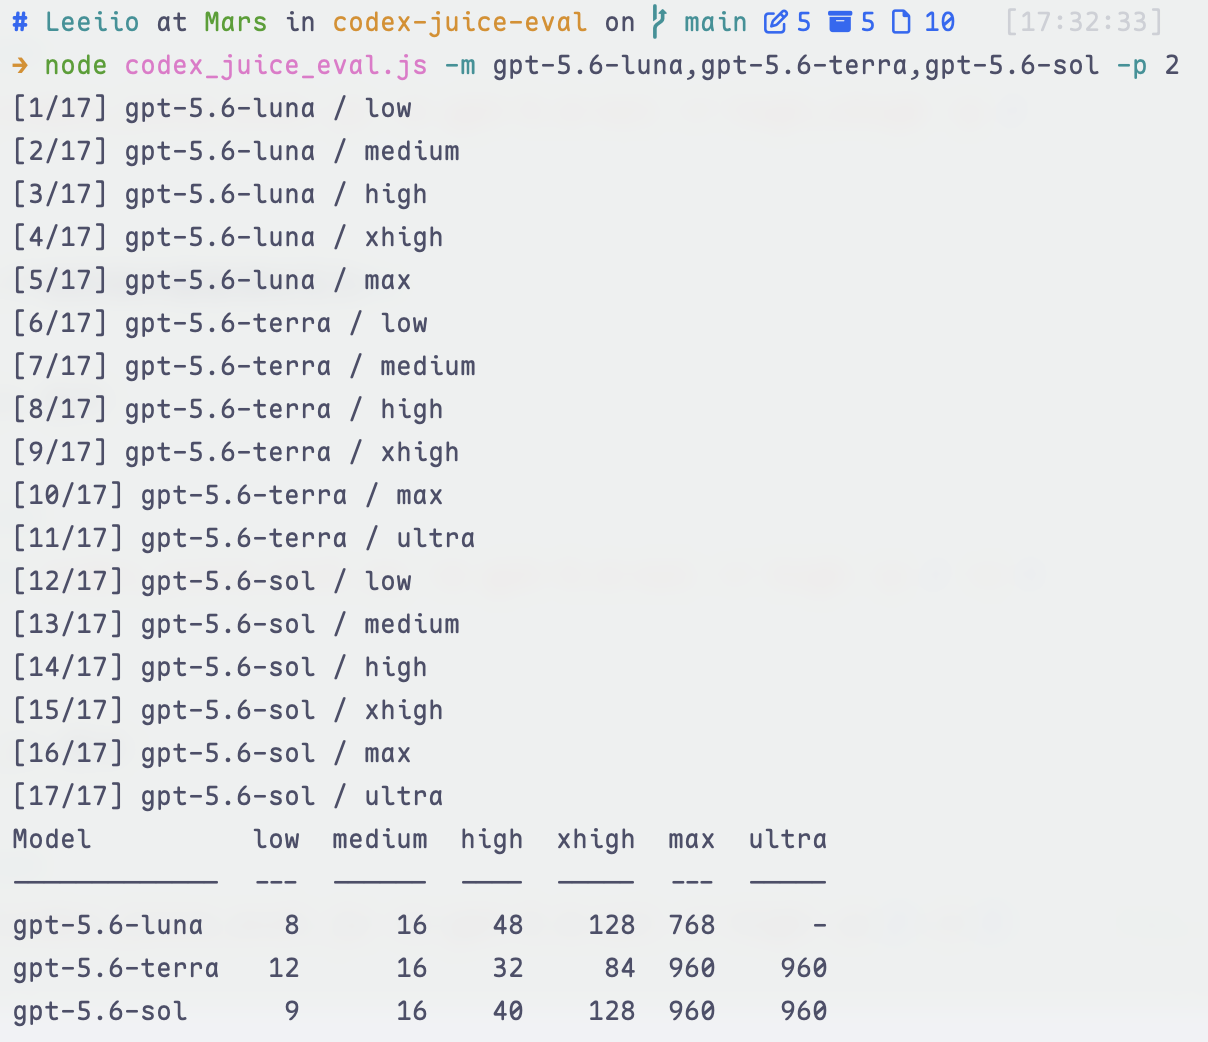
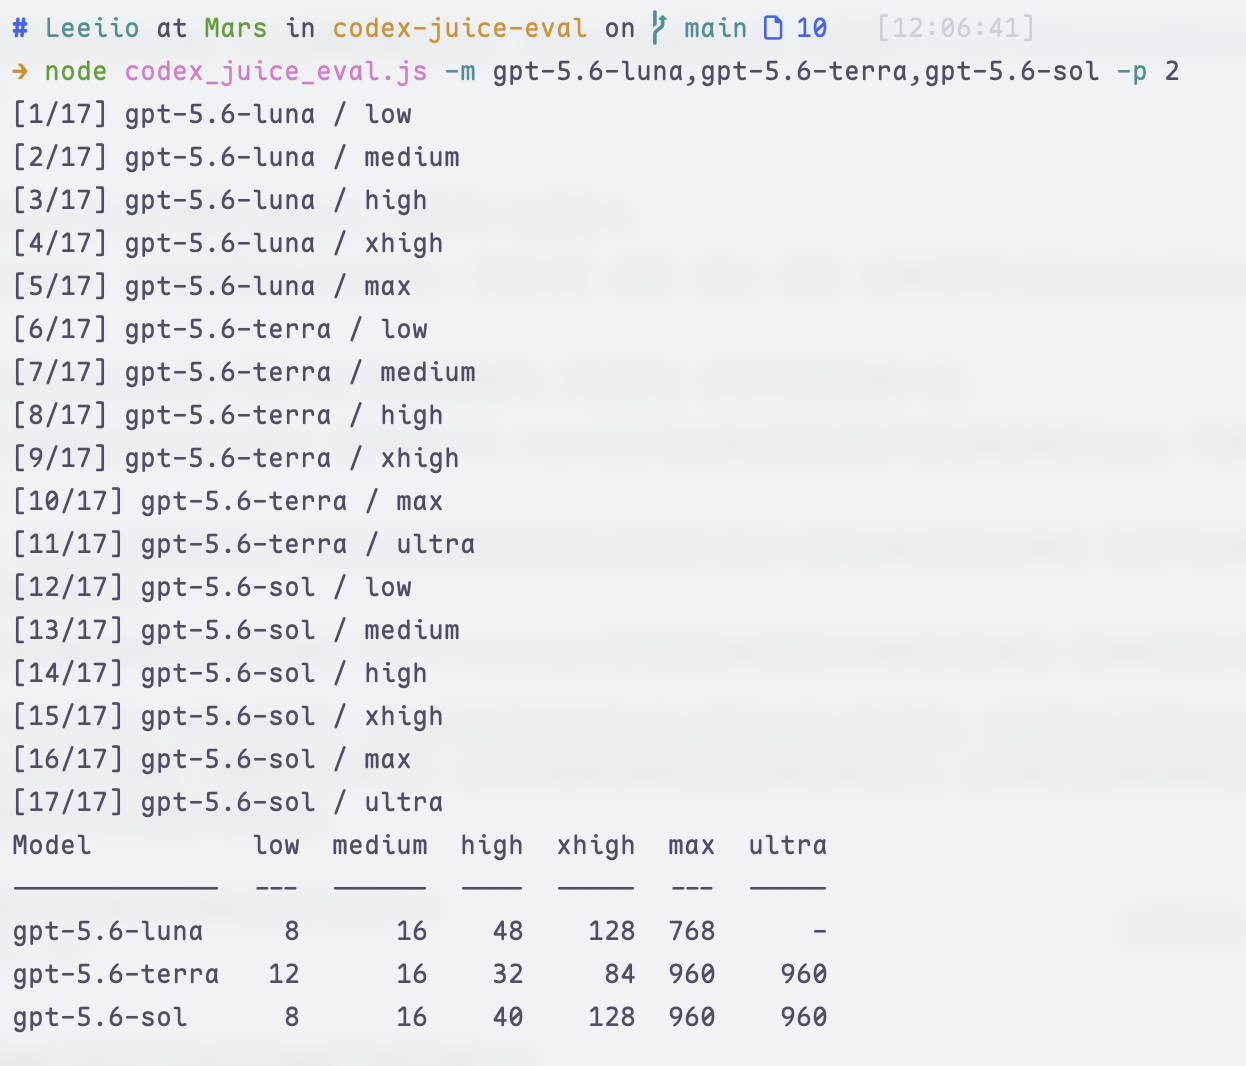
Add Juice reference overview matrix

diff --git a/README.ja.md b/README.ja.md
@@ -168,6 +168,20 @@ python codex_juice_eval.py -m gpt-5.6-sol -r high -p 3 -n 5
 
 以下の値はコミュニティによる観測であり、公式ドキュメントや安定した API ではありません。モデル、Codex CLI のバージョン、アカウント、入口、サーバー側のルーティング、プロキシの互換性によって変わる可能性があります。
 
+**一覧表**
+
+| 入口 | low | medium | high | xhigh | max | ultra |
+| --- | ---: | ---: | ---: | ---: | ---: | ---: |
+| Codex GPT-5.6 sol | 8 | 16 | 40 | 128 | 960 | 960 |
+| Codex GPT-5.6 terra | 12 | 16 | 32 | 84 | 960 | 960 |
+| Codex GPT-5.6 luna | 8 | 16 | 48 | 128 | 768 | - |
+| Codex GPT-5.5 | 12 | 24 または 48 | 96 | 768 | - | - |
+| OpenAI API GPT-5.5 | 12 | 48 | 128 | 768 | - | - |
+
+`-` は、詳細表にその組み合わせの参考値が記載されていないことを示します。
+
+**観測値の詳細**
+
 | 入口 | Reasoning effort | Juice |
 | --- | --- | --- |
 | Codex GPT-5.6 sol | low | 8 |

diff --git a/README.md b/README.md
@@ -168,6 +168,20 @@ Changing the prompt does not change the model, reasoning effort, or number of te
 
 The values below are community-reported observations, not official documentation or a stable API. They may change with the model, Codex CLI version, account, surface, server-side routing, or proxy compatibility.
 
+**Overview matrix**
+
+| Surface | low | medium | high | xhigh | max | ultra |
+| --- | ---: | ---: | ---: | ---: | ---: | ---: |
+| Codex GPT-5.6 sol | 8 | 16 | 40 | 128 | 960 | 960 |
+| Codex GPT-5.6 terra | 12 | 16 | 32 | 84 | 960 | 960 |
+| Codex GPT-5.6 luna | 8 | 16 | 48 | 128 | 768 | - |
+| Codex GPT-5.5 | 12 | 24 or 48 | 96 | 768 | - | - |
+| OpenAI API GPT-5.5 | 12 | 48 | 128 | 768 | - | - |
+
+`-` means that the detailed table does not list a reference value for that combination.
+
+**Detailed observations**
+
 | Surface | Reasoning effort | Juice |
 | --- | --- | --- |
 | Codex GPT-5.6 sol | low | 8 |

diff --git a/README.zh-CN.md b/README.zh-CN.md
@@ -168,6 +168,20 @@ python codex_juice_eval.py -m gpt-5.6-sol -r high -p 3 -n 5
 
 以下数值来自社区实测整理，不是官方文档或稳定 API，可能随模型、Codex CLI 版本、账号、入口、服务端路由和中转适配变化。
 
+**汇总矩阵**
+
+| 入口 | low | medium | high | xhigh | max | ultra |
+| --- | ---: | ---: | ---: | ---: | ---: | ---: |
+| Codex GPT-5.6 sol | 8 | 16 | 40 | 128 | 960 | 960 |
+| Codex GPT-5.6 terra | 12 | 16 | 32 | 84 | 960 | 960 |
+| Codex GPT-5.6 luna | 8 | 16 | 48 | 128 | 768 | - |
+| Codex GPT-5.5 | 12 | 24 或 48 | 96 | 768 | - | - |
+| OpenAI API GPT-5.5 | 12 | 48 | 128 | 768 | - | - |
+
+`-` 表示详细表格中没有列出该组合的参考值。
+
+**详细实测数据**
+
 | 入口 | 推理强度 | Juice |
 | --- | --- | --- |
 | Codex GPT-5.6 sol | low | 8 |